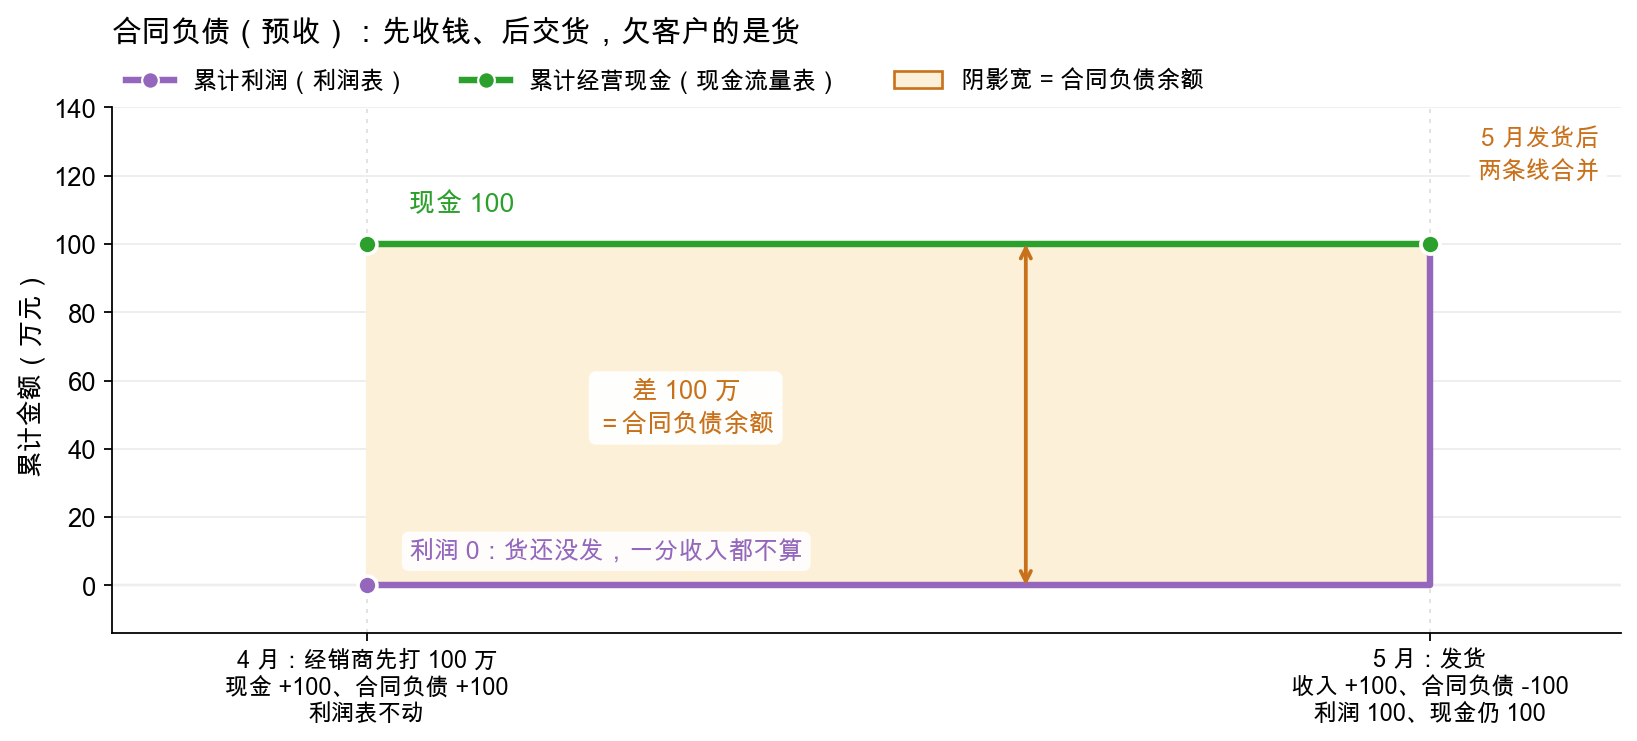
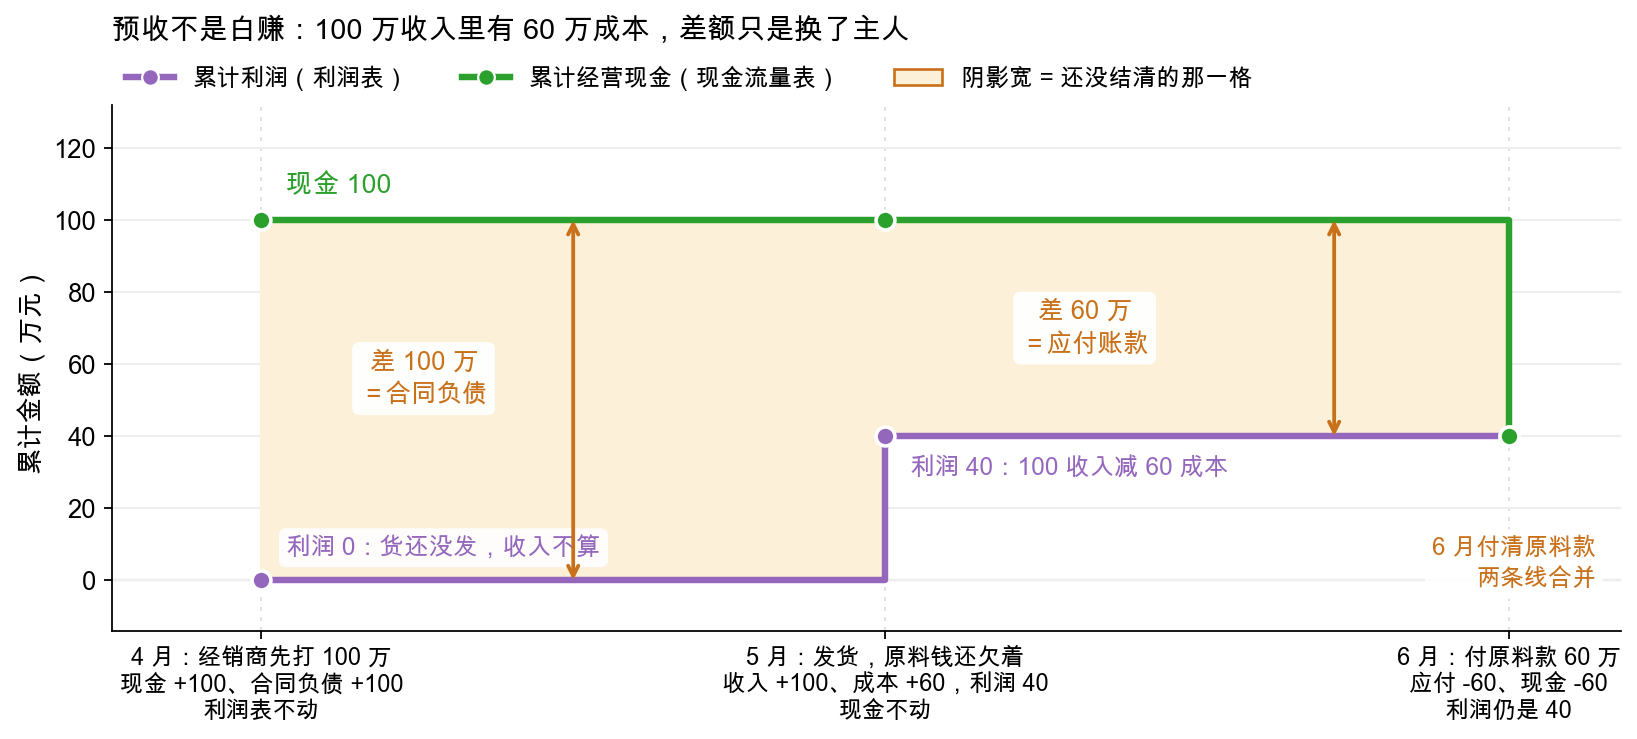
fix: 预收示例补上 60 万成本，差额改为"换主人"而不是凭空消失
原示例只有"收入 100、利润 100"，等于毛利率 100%，任何卖货生意都不
成立——发货时是收入与成本同时进利润表，利润只有 40。图也因此把"两条
线合并"做成了靠省略成本得到的假象。

- 预收时间线补成三步：4 月收款（合同负债 100）→ 5 月发货（收入 100、
  成本 60、利润 40，原料钱还欠着，差额转手成应付账款 60）→ 6 月付
  原料款（两条线才合并）
- 正文点明"收入 100 不等于利润 100"：收入是卖价，成本是这批货自己的
  代价，收钱多少和赚多少是两件事
- 图重画：两段阴影，4 月是合同负债 100 万元、5 月换成应付账款 60 万元，
  规则"阴影宽 = 还没结清的那一格"在每段都成立
- 收口三条里补半句：差额随后转手给应付账款，换一格继续挂着

顺带：这个例子正好构成伊利模式的完整版（经销商先打款 → 发货确认收入
→ 牧场那笔原料钱后付）。

验证：verify_latex.py、verify_course.py、mdbook build 均通过

diff --git a/figures/gen_w01d5_advance_gap.py b/figures/gen_w01d5_advance_gap.py
@@ -1,10 +1,10 @@
 # 许可：本文件适用 MIT License（见仓库根目录 LICENSE）。
 """第 1 周第 5 章配图之二：合同负债（预收）的「时点差」长什么样。
 
-4 月经销商先打 100 万元、5 月才发货。
-两条阶梯线分别是累计利润与累计经营现金，中间的阴影宽度就是合同负债余额。
-与应付账款那张图共用同一套图形语言：形状一样，只是一格欠钱、一格欠货。
-示意数字，与正文那两行时间线表一一对应。
+4 月经销商先打 100 万元，5 月发货（收入 100、成本 60，利润 40），6 月才付原料款。
+两条阶梯线分别是累计利润与累计经营现金，中间的阴影宽度是"还没结清的那一格"：
+4 月是合同负债 100 万元，5 月换成应付账款 60 万元，6 月付清才合并。
+示意数字，与正文那三行时间线表一一对应。
 """
 import sys
 import pathlib
@@ -20,19 +20,20 @@ from figures._common import (  # noqa: E402
 F_GAP = "#fdf0d9"          # 差额带的浅橙底
 C_GAP = "#c9711a"          # 差额带描边与文字
 
-x = [0, 1]
-profit = [0, 100]          # 4 月货没发，利润不动；5 月发货才确认收入 100
-cash = [100, 100]          # 4 月收到 100 万；5 月发货不再有现金进出
+x = [0, 1, 2]
+profit = [0, 40, 40]       # 4 月货没发；5 月发货：收入 100 - 成本 60 = 利润 40
+cash = [100, 100, 40]      # 4 月收 100 万；5 月原料钱还欠着；6 月付 60 万
 ticks = [
     "4 月：经销商先打 100 万\n现金 +100、合同负债 +100\n利润表不动",
-    "5 月：发货\n收入 +100、合同负债 -100\n利润 100、现金仍 100",
+    "5 月：发货，原料钱还欠着\n收入 +100、成本 +60，利润 40\n现金不动",
+    "6 月：付原料款 60 万\n应付 -60、现金 -60\n利润仍是 40",
 ]
 
 fig, ax = plt.subplots(figsize=(10.6, 6.2))
 fig.subplots_adjust(left=0.095, right=0.985, top=0.755, bottom=0.225)
 
-ax.set_xlim(-0.24, 1.18)
-ax.set_ylim(-14, 140)
+ax.set_xlim(-0.24, 2.18)
+ax.set_ylim(-14, 132)
 
 ax.step(x, profit, where="post", color=C_PURPLE, lw=2.9, zorder=4,
         solid_capstyle="round")
@@ -41,20 +42,33 @@ ax.step(x, cash, where="post", color=C_GREEN, lw=2.9, zorder=4,
 ax.plot(x, profit, "o", ms=8.5, color=C_PURPLE, mec="white", mew=1.6, zorder=6)
 ax.plot(x, cash, "o", ms=8.5, color=C_GREEN, mec="white", mew=1.6, zorder=6)
 
+# 第一段差额：4 月，合同负债 100 万元
 ax.fill_between([0, 1], [0, 0], [100, 100], color=F_GAP, zorder=2)
 ax.plot([0, 1], [0, 0], color=C_GAP, lw=1.0, ls=(0, (3, 2)), zorder=3)
 ax.plot([0, 1], [100, 100], color=C_GAP, lw=1.0, ls=(0, (3, 2)), zorder=3)
-ax.annotate("", xy=(0.62, 100), xytext=(0.62, 0),
+ax.annotate("", xy=(0.50, 100), xytext=(0.50, 0),
             arrowprops=dict(arrowstyle="<->", color=C_GAP, lw=1.7,
                             shrinkA=0, shrinkB=0), zorder=7)
-label(ax, 0.30, 52, "差 100 万\n＝合同负债余额", color=C_GAP, fontsize=11.5,
+label(ax, 0.26, 56, "差 100 万\n＝合同负债", color=C_GAP, fontsize=11.5,
       weight="bold", fc="white", alpha=0.95)
 
-label(ax, 0.04, 112, "现金 100", color=C_GREEN, fontsize=12,
+# 第二段差额：5 月，换成应付账款 60 万元
+ax.fill_between([1, 2], [40, 40], [100, 100], color=F_GAP, zorder=2)
+ax.plot([1, 2], [40, 40], color=C_GAP, lw=1.0, ls=(0, (3, 2)), zorder=3)
+ax.plot([1, 2], [100, 100], color=C_GAP, lw=1.0, ls=(0, (3, 2)), zorder=3)
+ax.annotate("", xy=(1.72, 100), xytext=(1.72, 40),
+            arrowprops=dict(arrowstyle="<->", color=C_GAP, lw=1.7,
+                            shrinkA=0, shrinkB=0), zorder=7)
+label(ax, 1.32, 70, "差 60 万\n＝应付账款", color=C_GAP, fontsize=11.5,
+      weight="bold", fc="white", alpha=0.95)
+
+label(ax, 0.04, 110, "现金 100", color=C_GREEN, fontsize=12,
       weight="bold", ha="left")
-label(ax, 0.04, 10, "利润 0：货还没发，一分收入都不算",
-      color=C_PURPLE, fontsize=11.2, weight="bold", ha="left")
-label(ax, 1.16, 126, "5 月发货后\n两条线合并", color=C_GAP, fontsize=11,
+label(ax, 0.04, 9, "利润 0：货还没发，收入不算",
+      color=C_PURPLE, fontsize=11, weight="bold", ha="left")
+label(ax, 1.04, 31, "利润 40：100 收入减 60 成本", color=C_PURPLE,
+      fontsize=11, weight="bold", ha="left")
+label(ax, 2.14, 4.5, "6 月付清原料款\n两条线合并", color=C_GAP, fontsize=10.8,
       ha="right", va="center")
 
 for _x in x:
@@ -62,7 +76,7 @@ for _x in x:
 ax.set_xticks(x)
 ax.set_xticklabels(ticks, fontsize=10.6)
 ax.set_ylabel("累计金额（万元）", fontsize=11.8)
-ax.set_title("合同负债（预收）：先收钱、后交货，欠客户的是货", fontsize=13.5,
+ax.set_title("预收不是白赚：100 万收入里有 60 万成本，差额只是换了主人", fontsize=13,
              pad=30, loc="left")
 ax.legend(
     handles=[
@@ -71,7 +85,7 @@ ax.legend(
         plt.Line2D([], [], color=C_GREEN, lw=2.9, marker="o", ms=7.5,
                    mec="white", label="累计经营现金（现金流量表）"),
         plt.Rectangle((0, 0), 1, 1, fc=F_GAP, ec=C_GAP, lw=1.2,
-                      label="阴影宽 = 合同负债余额"),
+                      label="阴影宽 = 还没结清的那一格"),
     ],
     loc="lower left", bbox_to_anchor=(0.0, 1.0), ncol=3, frameon=False,
     fontsize=10.8, handlelength=2.0, columnspacing=2.2, borderaxespad=0.2,

diff --git a/learning-guide/week01/05-实战-十分钟定位20个关键数字.md b/learning-guide/week01/05-实战-十分钟定位20个关键数字.md
@@ -172,18 +172,21 @@ $$\frac{\text{经营现金流净额}}{\text{归母净利润}} = \frac{217.40}{84
 
 读这张图只需三步：**3 月两条线都贴着 0**（赊购只是让存货和应付各多一笔，东西没卖出去，利润表一动不动，差额还没开始）；**4 月两条线分开 4 万元**（利润只记了 6、现金进了 10，差的正是没付的奶款）；**5 月付掉奶款，两条线合并**（现金掉回 6，三个月合计利润 6、现金 6，一分不多一分不少）。
 
-**预收：4 月经销商先打 100 万订 5 月的货，5 月才发货。**
+**预收：4 月经销商先打 100 万订 5 月的货，5 月发货（这批货成本 60 万，原料钱到 6 月才付给供应商）。**
 
 | 时点 | 资产负债表 | 利润表 | 现金流量表 |
 |---|---|---|---|
 | 4 月收款 | 货币资金 +100，合同负债 +100 | 不动（货没发，不算收入） | 经营现金 +100 |
-| 5 月发货 | 合同负债 -100 | 营业收入 +100，利润 +100 | 不动 |
+| 5 月发货，原料钱还欠着 | 合同负债 -100，应付账款 +60 | 营业收入 +100、营业成本 +60，利润 +40 | 不动 |
+| 6 月付原料款 | 应付账款 -60，货币资金 -60 | 不动 | 经营现金 -60 |
 
-同一个形状，只是欠的东西换了：
+5 月那一行要盯住：**收入 100 不等于利润 100。** 收入是卖给经销商的价格，成本是这批货自己的代价，两者一起进利润表，**利润只有 40**——收钱多少跟赚多少是两件事。
 
-![合同负债的时点差：4 月收款后两条线分开 100 万元（还没交的货），5 月发货后合并](../../figures/out/w01d5_advance_gap.png)
+同一个形状，只是差额换了主人：
 
-**4 月两条线分开 100 万元**——现金已经进来了，利润表还一分没动；**5 月发货，两条线合并**——收入确认，利润追上现金。这是同一条规则的另一面：**收入认不认，看"货有没有交出去"，也不看钱收没收到。**
+![预收的时点差：4 月差额 100 万元是合同负债，5 月换成应付账款 60 万元，6 月付清后两条线合并](../../figures/out/w01d5_advance_gap.png)
+
+**4 月两条线分开 100 万元**，那是合同负债（欠客户的货）；**5 月合同负债归零，差额却只缩到 60 万元**——利润涨了 40 的同时原料钱还欠着，差额转手成了应付账款；**6 月付掉原料款，两条线才合并。** 差额不会凭空消失，它只是在几格之间换主人。这也是同一条规则的另一面：**收入认不认，看"货有没有交出去"，不看钱收没收到。**
 
 还有一件事没在上面那张四格表里，因为它不欠任何人的钱——**东西先做出来、却迟迟卖不掉**。比如 4 月就把牛奶做成了奶茶，一直放到 9 月才卖掉：
 
@@ -197,7 +200,7 @@ $$\frac{\text{经营现金流净额}}{\text{归母净利润}} = \frac{217.40}{84
 两条线对起来读，就是这三句话：
 
 - **应付**：成本记在 4 月、钱付在 5 月。**从"确认成本"到"真正付款"这一段**里，利润已经跌过了，现金还没出去；
-- **预收**：钱收在 4 月、收入确认在 5 月。**从"收到钱"到"交货确认收入"这一段**里，现金已经进来了，利润还没涨；
+- **预收**：钱收在 4 月、收入确认在 5 月。**从"收到钱"到"交货确认收入"这一段**里，现金已经进来了，利润还没涨——差额随后转手给应付账款，换一格继续挂着；
 - **存货**：钱花在 4 月、成本记在 9 月。**从"把钱变成货"到"货卖出去"这一段**里，现金先走了，利润一点没动。
 
 **这些科目在增加，就等于这段空档正在变长**——要么有人先替你垫了资源（供应商垫货、客户垫钱），要么是你自己先把钱变成了卖不动的货。等垫的东西还回去（付款、发货、卖掉），两条线就合并，多出来的现金也就还回去了。**账上没有多出一分钱，只是同一笔钱被挪到了不同的月份。**
